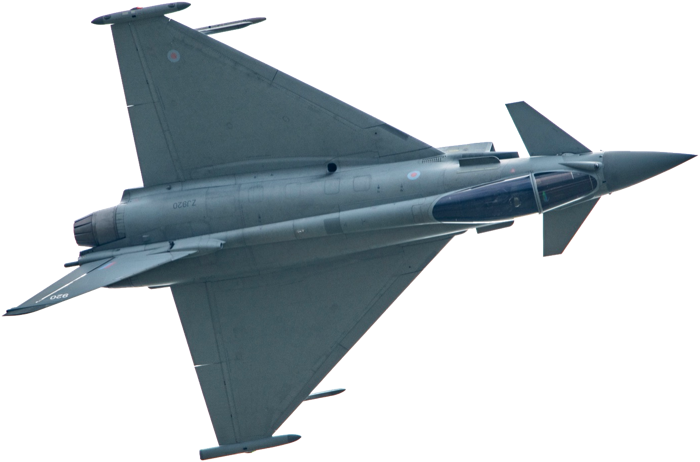
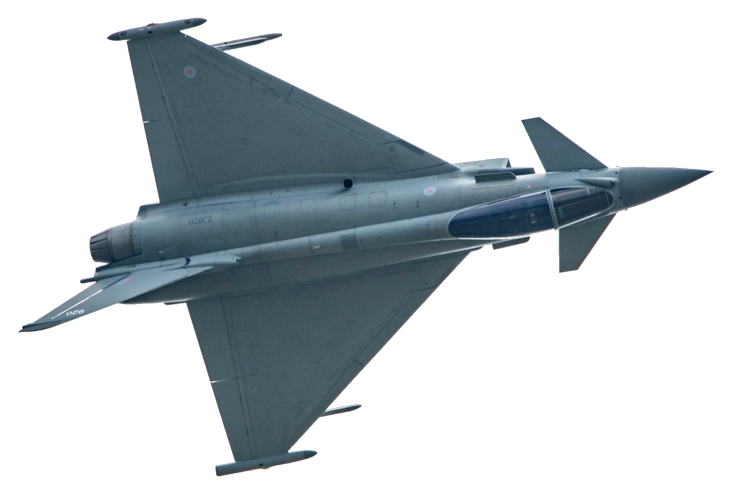
Join the team post: flat redesign with long rectangles for roles
Removes gradients, glows, glass tiles, dots and soft shadows. Flat teal
top with a Typhoon cut-out, flat navy below, roles as long white
square-cornered rectangles. Headline blocks unchanged.

Claude-Session: https://claude.ai/code/session_01CAsoXHgnMU2LaVUUdRrAu8

diff --git a/posters/tiktok/tiktok-join.html b/posters/tiktok/tiktok-join.html
@@ -64,50 +64,40 @@ body{font-family:var(--body);padding:24px 0;display:flex;flex-direction:column;a
 .bar{position:absolute;left:0;top:1860px;width:1080px;height:60px;z-index:5;display:flex}
 .bar div{flex:1;height:60px}
 
-.sky{position:absolute;left:0;top:0;width:1080px;height:1010px;z-index:0;background:radial-gradient(620px 520px at 74% 34%,rgba(95,227,220,.42),rgba(95,227,220,0) 70%),linear-gradient(180deg,#0E2131 0%,#2a2c66 46%,#6950A1 100%)}
-.jet{position:absolute;left:452px;top:148px;width:660px;height:436px;display:block;transform:rotate(-13deg);z-index:1;filter:drop-shadow(0 26px 30px rgba(14,33,49,.45))}
-.panel{top:780px;height:1140px}
-.tr1{top:762px}
-.tr2{top:788px}
-.tr3{top:814px}
-.blob{position:absolute;border-radius:50%;z-index:3}
-.bl-a{left:-120px;top:1090px;width:560px;height:560px;background:radial-gradient(closest-side,rgba(215,73,73,.75),rgba(215,73,73,0))}
-.bl-b{left:520px;top:900px;width:620px;height:620px;background:radial-gradient(closest-side,rgba(127,227,222,.7),rgba(127,227,222,0))}
-.q{border-radius:16px;padding:0 22px;height:86px;display:flex;align-items:center;transform:rotate(-3deg);margin:4px 0 0 26px;background:#32B4AF;box-shadow:8px 8px 0 #0E2131}
-.q p{font-family:var(--display);font-weight:800;font-size:60px;line-height:86px;text-transform:uppercase;letter-spacing:0;color:#0E2131;white-space:nowrap}
+.jet{position:absolute;left:470px;top:150px;width:640px;height:432px;display:block;transform:rotate(-13deg);z-index:1}
+.panel{top:855px;height:1065px}
+.tr1{top:841px;background:#D74949}
+.tr2{top:867px;background:#fff}
+.q{border-radius:16px;padding:0 22px;height:86px;display:flex;align-items:center;transform:rotate(-3deg);margin:4px 0 0 26px;background:#13293C;box-shadow:8px 8px 0 #D74949}
+.q p{font-family:var(--display);font-weight:800;font-size:60px;line-height:86px;text-transform:uppercase;letter-spacing:0;color:#fff;white-space:nowrap}
 .want{font-family:var(--display);font-weight:800;font-size:40px;line-height:44px;letter-spacing:2.5px;text-transform:uppercase;color:#fff;margin:40px 0 14px 2px;white-space:nowrap}
-.roles{width:848px;display:flex;flex-direction:column;gap:16px}
-.rrow{display:flex;gap:16px}
-/* glass tiles: square corners, frosted, light edge */
-.role{width:200px;height:200px;border-radius:0;display:flex;flex-direction:column;align-items:center;justify-content:center;gap:0;
-  background:linear-gradient(135deg,rgba(255,255,255,.40) 0%,rgba(255,255,255,.16) 42%,rgba(255,255,255,.08) 100%);
-  border:2.5px solid rgba(255,255,255,.62);-webkit-backdrop-filter:blur(18px) saturate(1.35);backdrop-filter:blur(18px) saturate(1.35);
-  box-shadow:0 14px 34px rgba(14,33,49,.30),inset 0 2px 0 rgba(255,255,255,.55)}
-.ric{width:66px;height:66px;display:flex;align-items:center;justify-content:center;color:#fff;flex:none;margin-bottom:12px}
-.ric .glyph{width:66px;height:66px}
-.rl{width:190px;text-align:center;font-family:var(--display);font-weight:800;font-size:28px;line-height:31px;text-transform:uppercase;letter-spacing:.4px;color:#fff;white-space:nowrap;text-shadow:0 2px 6px rgba(14,33,49,.35)}
-.pill{border-radius:0}
+.roles{width:850px;display:flex;flex-direction:column;gap:12px}
+.rrow{display:flex;gap:14px}
+/* long rectangles: flat white, square corners, a red edge on the left */
+.role{width:418px;height:72px;background:#fff;border-radius:0;display:flex;align-items:center}
+.rbar{width:14px;height:72px;background:#D74949;flex:none}
+.role p{font-family:var(--display);font-weight:800;font-size:37px;line-height:40px;text-transform:uppercase;letter-spacing:.3px;color:#13293C;white-space:nowrap;margin-left:18px}
+.pill{border-radius:0;transform:none}
 .site{font-size:35px}
 </style></head><body>
 
-<section class="slide" id="tk-join" data-canvas-width="1080" data-canvas-height="1920" style="background:#1F8F8A">
-  <div class="sky"></div>
-  <img class="jet" src="img/jet-typhoon.png" width="660" height="436" alt="Typhoon fighter jet">
-  <div class="panel" style="background:linear-gradient(165deg,#6950A1 0%,#1F8F8A 100%)"></div>
-  <div class="blob bl-a"></div><div class="blob bl-b"></div>
-  <div class="dots"></div>
-  <div class="trail tr1"></div><div class="trail tr2"></div><div class="trail tr3"></div>
-  <img class="logo2" src="img/logo-swish.png" width="470" height="237" alt="UK Airshow Guide by The Big Guide to UK Airshows">
+<section class="slide" id="tk-join" data-canvas-width="1080" data-canvas-height="1920" style="background:#32B4AF">
+  <img class="jet" src="img/jet-typhoon.png" width="640" height="432" alt="Typhoon fighter jet">
+  <div class="panel" style="background:#0E2131"></div>
+  <div class="trail tr1"></div><div class="trail tr2"></div>
+  <img class="logo2" src="img/logo-swish.png" width="470" height="237" style="filter:none" alt="UK Airshow Guide by The Big Guide to UK Airshows">
   <div class="stack">
     <div class="hl b-white" style="height:157px;box-shadow:9px 9px 0 #0E2131"><p style="font-size:150px;line-height:157px">Join the</p></div>
     <div class="hl b-red" style="height:157px;box-shadow:9px 9px 0 #0E2131"><p style="font-size:150px;line-height:157px">team</p></div>
     <div class="q"><p>Happy to volunteer your time?</p></div>
     <p class="want">We're looking for</p>
     <div class="roles">
-      <div class="rrow"><div class="role"><div class="ric"><svg class="glyph" viewBox="0 0 24 24" fill="none" stroke="currentColor" stroke-width="2.4" stroke-linecap="round" stroke-linejoin="round" aria-hidden="true"><path d="M13.997 4a2 2 0 0 1 1.76 1.05l.486.9A2 2 0 0 0 18.003 7H20a2 2 0 0 1 2 2v9a2 2 0 0 1-2 2H4a2 2 0 0 1-2-2V9a2 2 0 0 1 2-2h1.997a2 2 0 0 0 1.759-1.048l.489-.904A2 2 0 0 1 10.004 4z" /><circle cx="12" cy="13" r="3" /></svg></div><p class="rl">Photographers</p></div><div class="role"><div class="ric"><svg class="glyph" viewBox="0 0 24 24" fill="none" stroke="currentColor" stroke-width="2.4" stroke-linecap="round" stroke-linejoin="round" aria-hidden="true"><path d="m16 13 5.223 3.482a.5.5 0 0 0 .777-.416V7.87a.5.5 0 0 0-.752-.432L16 10.5" /><rect x="2" y="6" width="14" height="12" rx="2" /></svg></div><p class="rl">Videographers</p></div><div class="role"><div class="ric"><svg class="glyph" viewBox="0 0 24 24" fill="none" stroke="currentColor" stroke-width="2.4" stroke-linecap="round" stroke-linejoin="round" aria-hidden="true"><path d="M13 21h8" /><path d="M21.174 6.812a1 1 0 0 0-3.986-3.987L3.842 16.174a2 2 0 0 0-.5.83l-1.321 4.352a.5.5 0 0 0 .623.622l4.353-1.32a2 2 0 0 0 .83-.497z" /></svg></div><p class="rl">Bloggers &amp;</p><p class="rl">reviewers</p></div><div class="role"><div class="ric"><svg class="glyph" viewBox="0 0 24 24" fill="none" stroke="currentColor" stroke-width="2.4" stroke-linecap="round" stroke-linejoin="round" aria-hidden="true"><path d="m12.296 3.464 3.02 3.956" /><path d="M20.2 6 3 11l-.9-2.4c-.3-1.1.3-2.2 1.3-2.5l13.5-4c1.1-.3 2.2.3 2.5 1.3z" /><path d="M3 11h18v8a2 2 0 0 1-2 2H5a2 2 0 0 1-2-2z" /><path d="m6.18 5.276 3.1 3.899" /></svg></div><p class="rl">Vloggers &amp;</p><p class="rl">TikTokers</p></div></div>
-      <div class="rrow"><div class="role"><div class="ric"><svg class="glyph" viewBox="0 0 24 24" fill="none" stroke="currentColor" stroke-width="2.4" stroke-linecap="round" stroke-linejoin="round" aria-hidden="true"><path d="M11 6a13 13 0 0 0 8.4-2.8A1 1 0 0 1 21 4v12a1 1 0 0 1-1.6.8A13 13 0 0 0 11 14H5a2 2 0 0 1-2-2V8a2 2 0 0 1 2-2z" /><path d="M6 14a12 12 0 0 0 2.4 7.2 2 2 0 0 0 3.2-2.4A8 8 0 0 1 10 14" /><path d="M8 6v8" /></svg></div><p class="rl">Social media</p><p class="rl">helpers</p></div><div class="role"><div class="ric"><svg class="glyph" viewBox="0 0 24 24" fill="none" stroke="currentColor" stroke-width="2.4" stroke-linecap="round" stroke-linejoin="round" aria-hidden="true"><path d="M10 10h4" /><path d="M19 7V4a1 1 0 0 0-1-1h-2a1 1 0 0 0-1 1v3" /><path d="M20 21a2 2 0 0 0 2-2v-3.851c0-1.39-2-2.962-2-4.829V8a1 1 0 0 0-1-1h-4a1 1 0 0 0-1 1v11a2 2 0 0 0 2 2z" /><path d="M 22 16 L 2 16" /><path d="M4 21a2 2 0 0 1-2-2v-3.851c0-1.39 2-2.962 2-4.829V8a1 1 0 0 1 1-1h4a1 1 0 0 1 1 1v11a2 2 0 0 1-2 2z" /><path d="M9 7V4a1 1 0 0 0-1-1H6a1 1 0 0 0-1 1v3" /></svg></div><p class="rl">Plane</p><p class="rl">spotters</p></div><div class="role"><div class="ric"><svg class="glyph" viewBox="0 0 24 24" fill="none" stroke="currentColor" stroke-width="2.4" stroke-linecap="round" stroke-linejoin="round" aria-hidden="true"><path d="M17.8 19.2 16 11l3.5-3.5C21 6 21.5 4 21 3c-1-.5-3 0-4.5 1.5L13 8 4.8 6.2c-.5-.1-.9.1-1.1.5l-.3.5c-.2.5-.1 1 .3 1.3L9 12l-2 3H4l-1 1 3 2 2 3 1-1v-3l3-2 3.5 5.3c.3.4.8.5 1.3.3l.5-.2c.4-.3.6-.7.5-1.2z" /></svg></div><p class="rl">Airshow</p><p class="rl">experts</p></div><div class="role"><div class="ric"><svg class="glyph" viewBox="0 0 24 24" fill="none" stroke="currentColor" stroke-width="2.4" stroke-linecap="round" stroke-linejoin="round" aria-hidden="true"><path d="m11 17 2 2a1 1 0 1 0 3-3" /><path d="m14 14 2.5 2.5a1 1 0 1 0 3-3l-3.88-3.88a3 3 0 0 0-4.24 0l-.88.88a1 1 0 1 1-3-3l2.81-2.81a5.79 5.79 0 0 1 7.06-.87l.47.28a2 2 0 0 0 1.42.25L21 4" /><path d="m21 3 1 11h-2" /><path d="M3 3 2 14l6.5 6.5a1 1 0 1 0 3-3" /><path d="M3 4h8" /></svg></div><p class="rl">Organiser</p><p class="rl">liaison</p></div></div>
+      <div class="rrow"><div class="role"><div class="rbar"></div><p>Photographers</p></div><div class="role"><div class="rbar"></div><p>Videographers</p></div></div>
+      <div class="rrow"><div class="role"><div class="rbar"></div><p>Bloggers &amp; reviewers</p></div><div class="role"><div class="rbar"></div><p>Vloggers &amp; TikTokers</p></div></div>
+      <div class="rrow"><div class="role"><div class="rbar"></div><p>Social media helpers</p></div><div class="role"><div class="rbar"></div><p>Plane spotters</p></div></div>
+      <div class="rrow"><div class="role"><div class="rbar"></div><p>Airshow experts</p></div><div class="role"><div class="rbar"></div><p>Organiser liaison</p></div></div>
     </div>
-    <div class="cta"><div class="pill c-red" style="box-shadow:7px 7px 0 #0E2131"><p>Link in bio</p><svg class="glyph" viewBox="0 0 24 24" fill="none" stroke="currentColor" stroke-width="2.4" stroke-linecap="round" stroke-linejoin="round" aria-hidden="true"><path d="M7 7h10v10" /><path d="M7 17 17 7" /></svg></div><p class="site">ukairshowguide.co.uk/join-the-team</p></div>
+    <div class="cta"><div class="pill c-red"><p>Link in bio</p><svg class="glyph" viewBox="0 0 24 24" fill="none" stroke="currentColor" stroke-width="2.4" stroke-linecap="round" stroke-linejoin="round" aria-hidden="true"><path d="M7 7h10v10" /><path d="M7 17 17 7" /></svg></div><p class="site">ukairshowguide.co.uk/join-the-team</p></div>
   </div>
   <div class="low"><p class="low-a">All voluntary · Full credit · No minimum</p></div>
   <div class="bar"><div style="background:#D74949"></div><div style="background:#fff"></div><div style="background:#32B4AF"></div><div style="background:#6950A1"></div></div>
